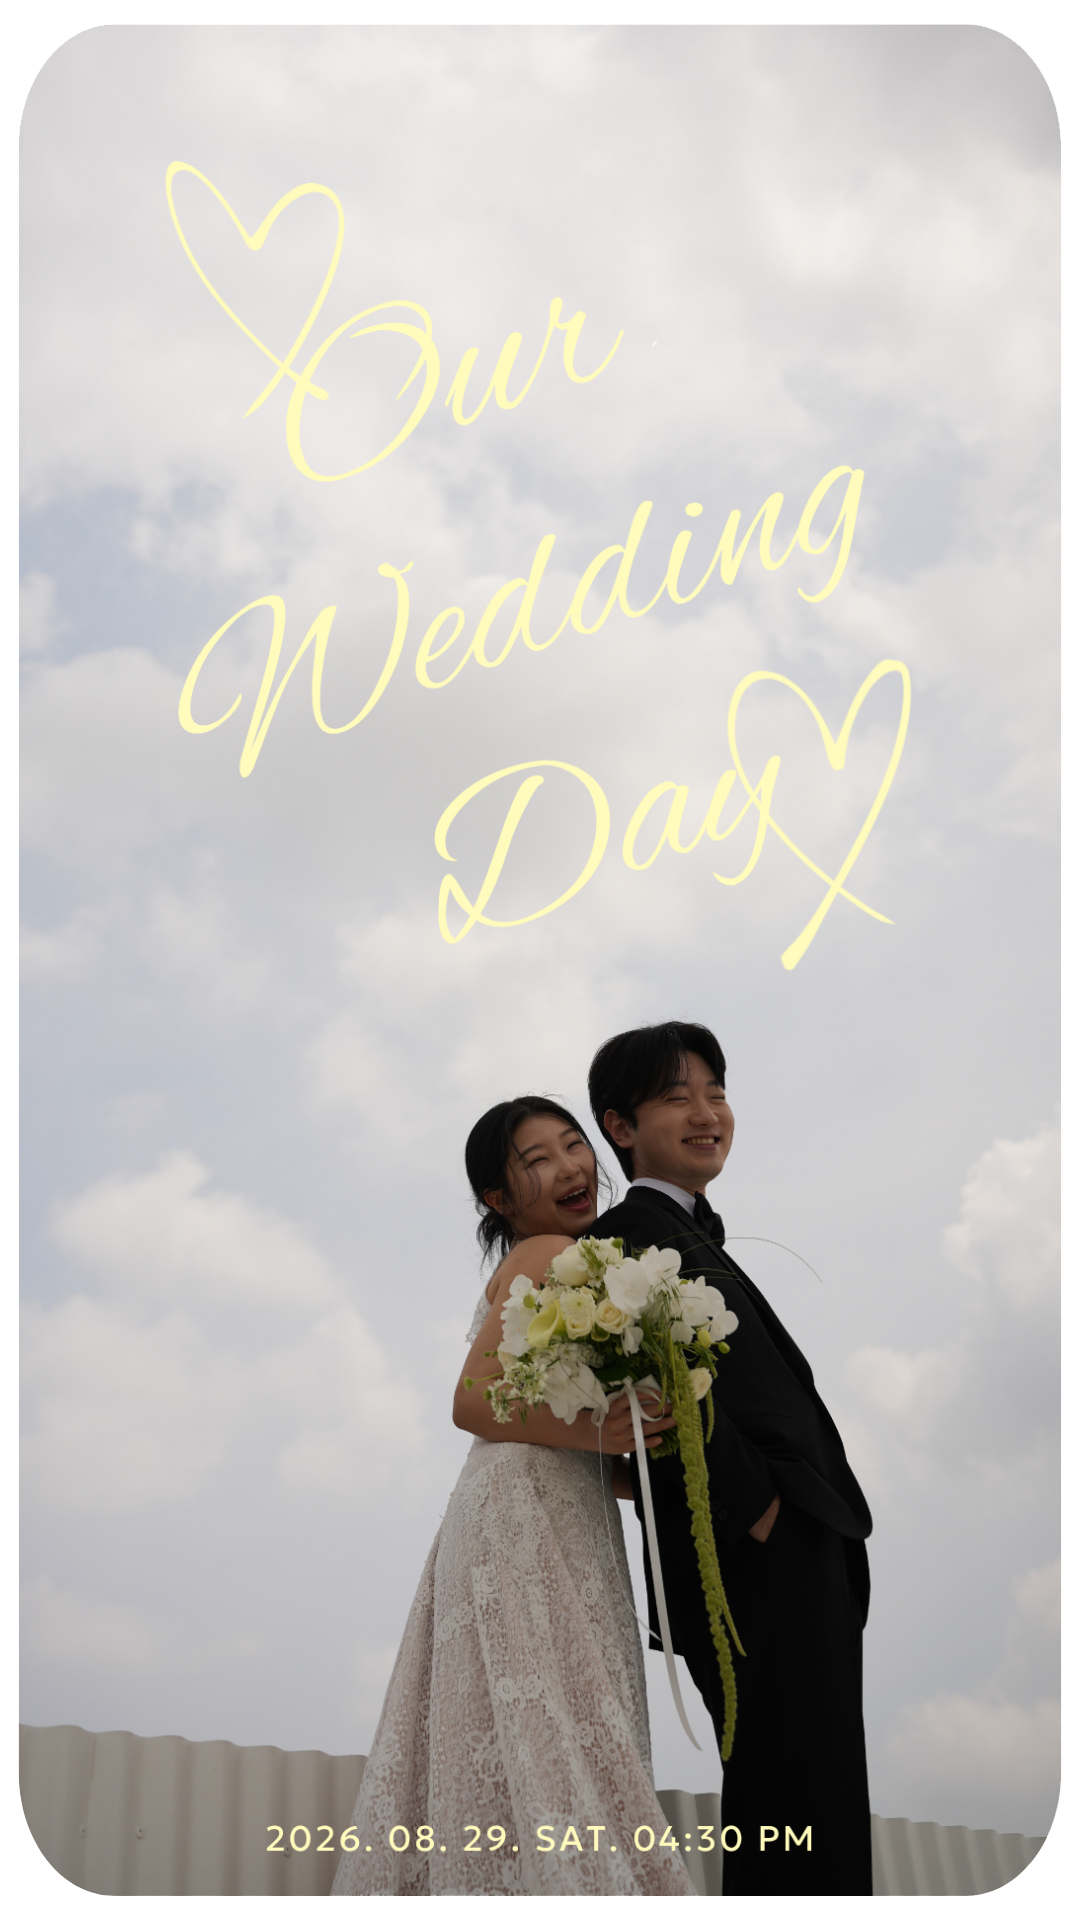
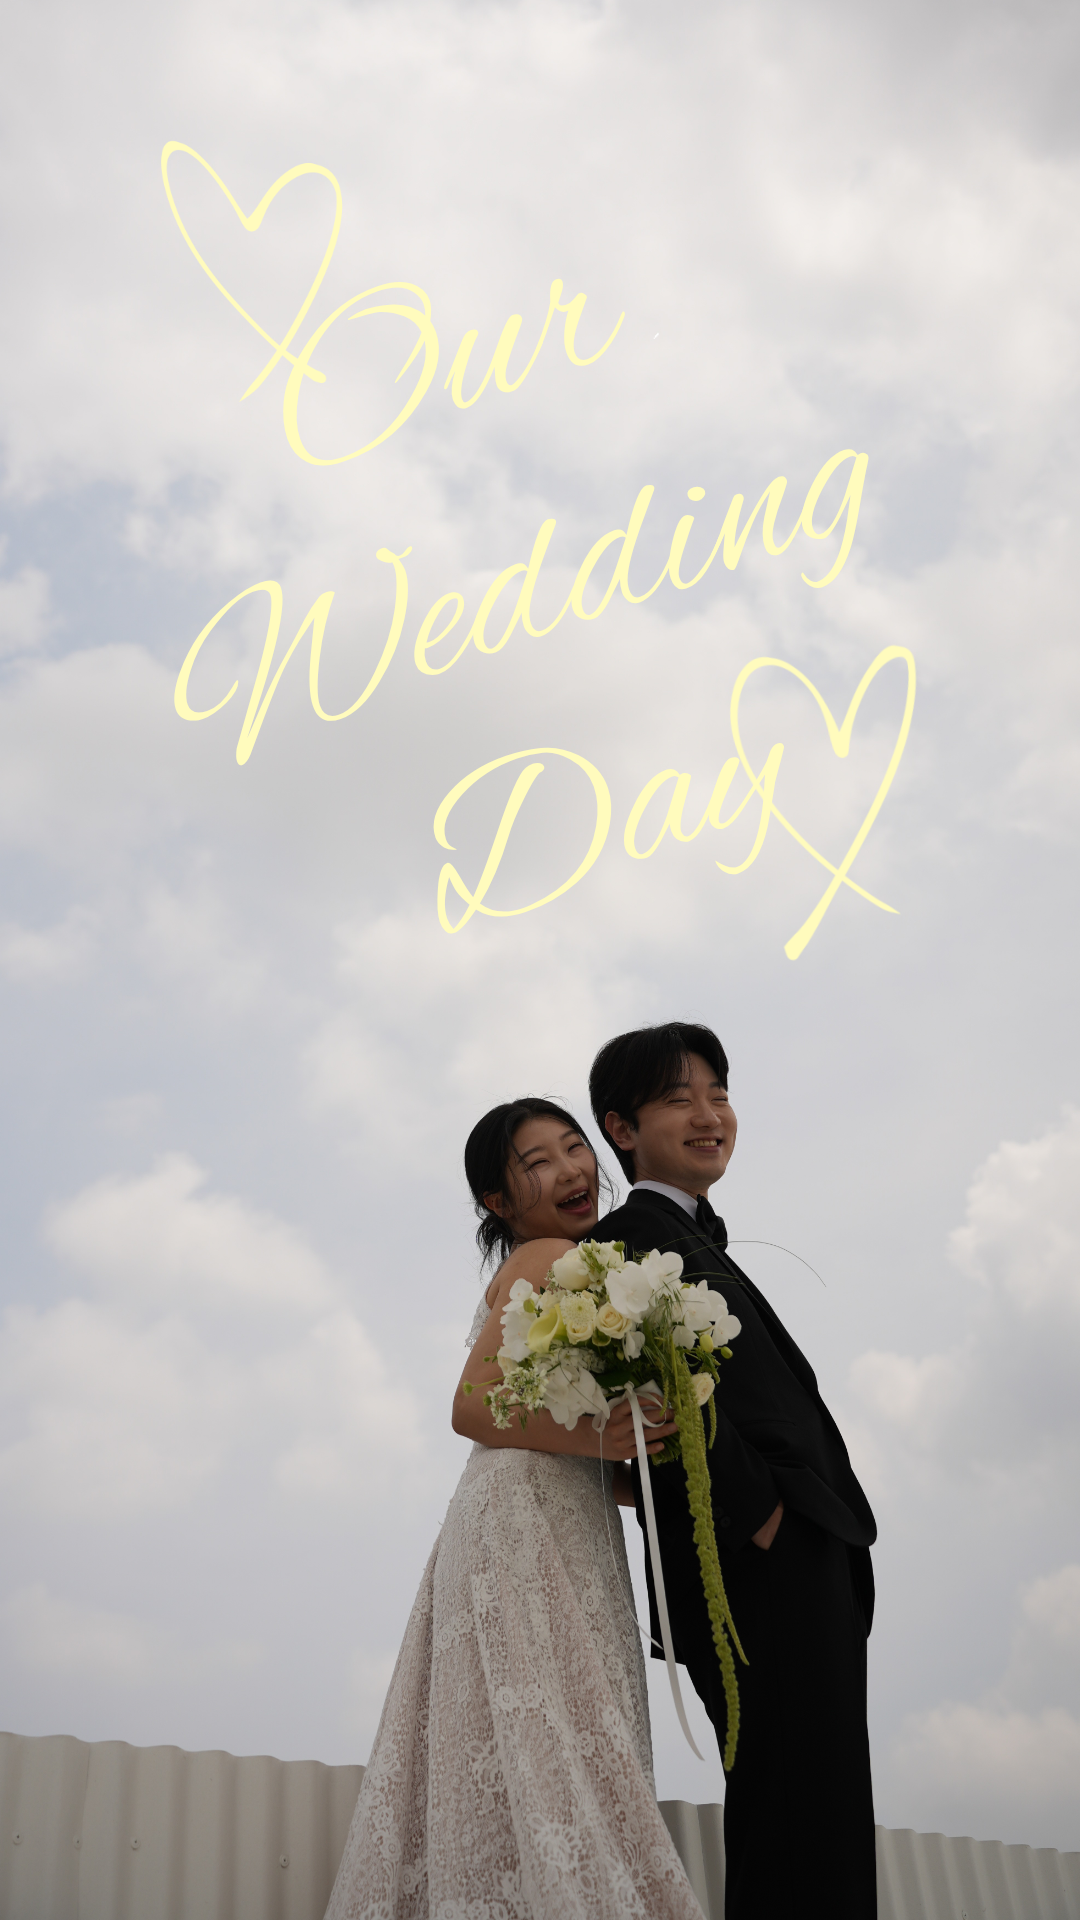
히어로 날짜 텍스트 스타일 조정

diff --git a/style.css b/style.css
@@ -102,11 +102,16 @@ body {
   position: relative;
   z-index: 1;
   margin: 0 auto 46px;
+  display: flex;
+  flex-direction: column;
+  align-items: center;
 }
 
 .hero-date-text {
   font-family: 'Geologica', sans-serif;
-  font-size: 26.7pt;
+  font-size: 10pt;
+  font-weight: 300;
+  letter-spacing: 1.5px;
   color: #fffbbd;
   margin-top: 10px;
   text-align: center;